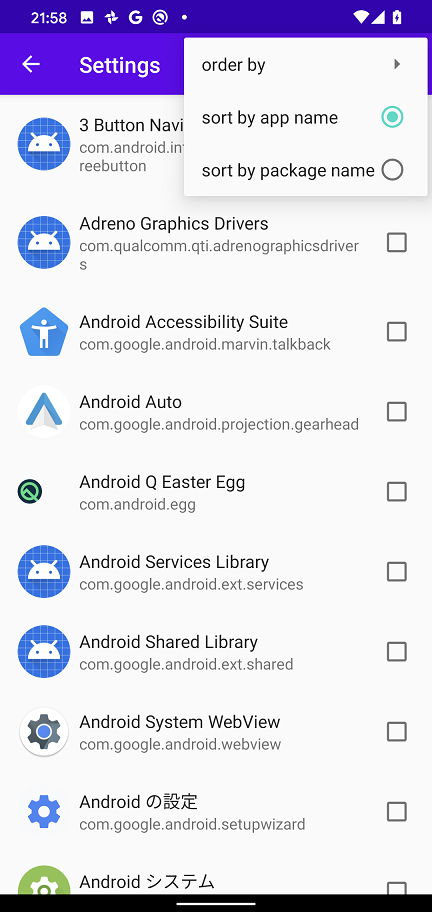
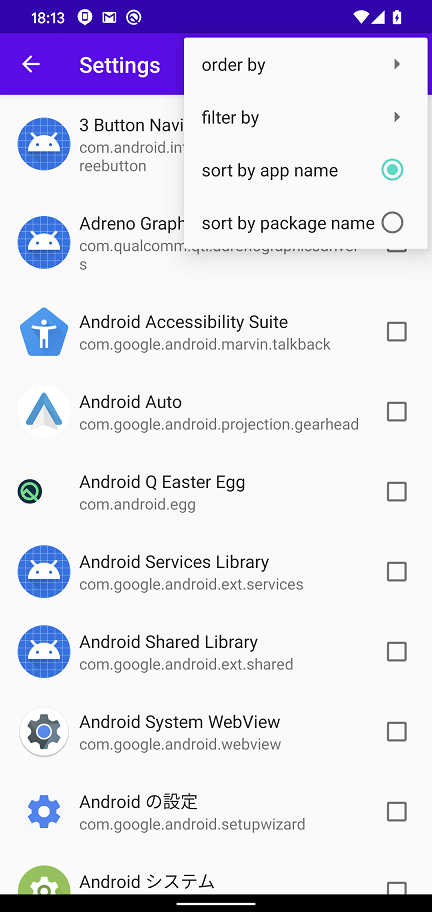
support filter by

diff --git a/android_app/app/src/main/java/tun/proxy/SettingsActivity.java b/android_app/app/src/main/java/tun/proxy/SettingsActivity.java
@@ -185,14 +185,16 @@ public class SettingsActivity extends AppCompatActivity {
     protected static class PackageListFragment extends PreferenceFragmentCompat
             implements SearchView.OnQueryTextListener, SearchView.OnCloseListener {
         private final Map<String, Boolean> mAllPackageInfoMap = new HashMap<>();
-        private final static String PREF_VPN_APPLICATION_SORTBY = "pref_vpn_application_app_sortby";
         private final static String PREF_VPN_APPLICATION_ORDERBY = "pref_vpn_application_app_orderby";
+        private final static String PREF_VPN_APPLICATION_FILTERBY = "pref_vpn_application_app_filterby";
+        private final static String PREF_VPN_APPLICATION_SORTBY = "pref_vpn_application_app_sortby";
 
-        private final AsyncTaskProgress task;
+        private AsyncTaskProgress task;
 
         private MyApplication.VPNMode mode;
         private MyApplication.AppSortBy appSortBy = MyApplication.AppSortBy.APPNAME;
         private MyApplication.AppOrderBy appOrderBy = MyApplication.AppOrderBy.ASC;
+        private MyApplication.AppSortBy appFilterBy = MyApplication.AppSortBy.APPNAME;
         private PreferenceScreen mFilterPreferenceScreen;
 
         public PackageListFragment(MyApplication.VPNMode mode) {
@@ -221,19 +223,6 @@ public class SettingsActivity extends AppCompatActivity {
             this.searchView.setOnCloseListener(this);
             this.searchView.setSubmitButtonEnabled(false);
 
-            switch (this.appSortBy) {
-                case APPNAME: {
-                    final MenuItem menuItem = menu.findItem(R.id.menu_sort_app_name);
-                    menuItem.setChecked(true);
-                    break;
-                }
-                case PKGNAME: {
-                    final MenuItem menuItem = menu.findItem(R.id.menu_sort_pkg_name);
-                    menuItem.setChecked(true);
-                    break;
-                }
-            }
-
             switch (this.appOrderBy) {
                 case ASC: {
                     final MenuItem menuItem = menu.findItem(R.id.menu_sort_order_asc);
@@ -247,30 +236,60 @@ public class SettingsActivity extends AppCompatActivity {
                 }
             }
 
+            switch (this.appFilterBy) {
+                case APPNAME: {
+                    final MenuItem menuItem = menu.findItem(R.id.menu_filter_app_name);
+                    menuItem.setChecked(true);
+                    break;
+                }
+                case PKGNAME: {
+                    final MenuItem menuItem = menu.findItem(R.id.menu_filter_pkg_name);
+                    menuItem.setChecked(true);
+                    break;
+                }
+            }
+
+            switch (this.appSortBy) {
+                case APPNAME: {
+                    final MenuItem menuItem = menu.findItem(R.id.menu_sort_app_name);
+                    menuItem.setChecked(true);
+                    break;
+                }
+                case PKGNAME: {
+                    final MenuItem menuItem = menu.findItem(R.id.menu_sort_pkg_name);
+                    menuItem.setChecked(true);
+                    break;
+                }
+            }
         }
 
         private String searchFilter = "";
         private SearchView searchView;
 
         protected void filter(String filter) {
-            this.filter(filter, this.appSortBy, this.appOrderBy);
+            this.filter(filter, this.appFilterBy, this.appOrderBy, this.appSortBy);
         }
 
-        protected void filter(String filter, final MyApplication.AppSortBy sortBy, final MyApplication.AppOrderBy orderBy) {
+        protected void filter(String filter, final MyApplication.AppSortBy filterBy, final MyApplication.AppOrderBy orderBy, final MyApplication.AppSortBy sortBy) {
             if (filter == null) {
                 filter = searchFilter;
             } else {
                 searchFilter = filter;
             }
-            this.appSortBy = sortBy;
+            this.appFilterBy = filterBy;
             this.appOrderBy = orderBy;
+            this.appSortBy = sortBy;
 
             Set<String> selected = this.getAllSelectedPackageSet();
             storeSelectedPackageSet(selected);
 
             this.removeAllPreferenceScreen();
-            //final AsyncTaskProgress task = new AsyncTaskProgress(this);
-            if (task.getStatus() == AsyncTask.Status.PENDING) {
+
+            if (task != null && task.getStatus() == AsyncTask.Status.PENDING) {
+                task.execute();
+            }
+            else {
+                task = new AsyncTaskProgress(this);
                 task.execute();
             }
 //            this.filterPackagesPreferences(filter, sortBy, orderBy);
@@ -281,16 +300,17 @@ public class SettingsActivity extends AppCompatActivity {
             super.onPause();
             if (this.task != null) {
                 this.task.cancel(true);
+                this.task = null;
             }
 
             Set<String> selected = this.getAllSelectedPackageSet();
             storeSelectedPackageSet(selected);
             SharedPreferences prefs = PreferenceManager.getDefaultSharedPreferences(MyApplication.getInstance().getApplicationContext());
             SharedPreferences.Editor edit = prefs.edit();
-            edit.putString(PREF_VPN_APPLICATION_SORTBY, this.appSortBy.name());
             edit.putString(PREF_VPN_APPLICATION_ORDERBY, this.appOrderBy.name());
+            edit.putString(PREF_VPN_APPLICATION_FILTERBY, this.appFilterBy.name());
+            edit.putString(PREF_VPN_APPLICATION_SORTBY, this.appSortBy.name());
             edit.apply();
-            Log.i("onPause", this.appSortBy.name());
         }
 
         @Override
@@ -301,11 +321,12 @@ public class SettingsActivity extends AppCompatActivity {
                 this.mAllPackageInfoMap.put(pkgName, loadMap.contains(pkgName));
             }
             SharedPreferences prefs = PreferenceManager.getDefaultSharedPreferences(MyApplication.getInstance().getApplicationContext());
-            String appSortBy = prefs.getString(PREF_VPN_APPLICATION_SORTBY, MyApplication.AppSortBy.APPNAME.name());
             String appOrderBy = prefs.getString(PREF_VPN_APPLICATION_ORDERBY, MyApplication.AppOrderBy.ASC.name());
-            this.appSortBy = Enum.valueOf(MyApplication.AppSortBy.class, appSortBy);
+            String appFilterBy = prefs.getString(PREF_VPN_APPLICATION_FILTERBY, MyApplication.AppSortBy.APPNAME.name());
+            String appSortBy = prefs.getString(PREF_VPN_APPLICATION_SORTBY, MyApplication.AppSortBy.APPNAME.name());
             this.appOrderBy = Enum.valueOf(MyApplication.AppOrderBy.class, appOrderBy);
-            Log.i("onResume", this.appSortBy.name());
+            this.appFilterBy = Enum.valueOf(MyApplication.AppSortBy.class, appFilterBy);
+            this.appSortBy = Enum.valueOf(MyApplication.AppSortBy.class, appSortBy);
             filter(null);
         }
 
@@ -440,21 +461,31 @@ public class SettingsActivity extends AppCompatActivity {
                 case android.R.id.home:
                     startActivity(new Intent(getActivity(), SettingsActivity.class));
                     return true;
-                case R.id.menu_sort_app_name:
-                    item.setChecked(!item.isChecked());
-                    filter(null, MyApplication.AppSortBy.APPNAME, appOrderBy);
-                    break;
-                case R.id.menu_sort_pkg_name:
-                    item.setChecked(!item.isChecked());
-                    filter(null, MyApplication.AppSortBy.PKGNAME, appOrderBy);
-                    break;
                 case R.id.menu_sort_order_asc:
                     item.setChecked(!item.isChecked());
-                    filter(null, appSortBy, MyApplication.AppOrderBy.ASC);
+                    filter(null, appFilterBy, MyApplication.AppOrderBy.ASC, appSortBy);
                     break;
                 case R.id.menu_sort_order_desc:
                     item.setChecked(!item.isChecked());
-                    filter(null, appSortBy, MyApplication.AppOrderBy.DESC);
+                    filter(null, appFilterBy, MyApplication.AppOrderBy.DESC, appSortBy);
+                    break;
+                case R.id.menu_filter_app_name:
+                    item.setChecked(!item.isChecked());
+                    this.appFilterBy = MyApplication.AppSortBy.APPNAME;
+                    //filter(null, MyApplication.AppSortBy.APPNAME, appOrderBy, appSortBy);
+                    break;
+                case R.id.menu_filter_pkg_name:
+                    item.setChecked(!item.isChecked());
+                    this.appFilterBy = MyApplication.AppSortBy.PKGNAME;
+                    //filter(null, MyApplication.AppSortBy.PKGNAME, appOrderBy, appSortBy);
+                    break;
+                case R.id.menu_sort_app_name:
+                    item.setChecked(!item.isChecked());
+                    filter(null, appFilterBy, appOrderBy, MyApplication.AppSortBy.APPNAME);
+                    break;
+                case R.id.menu_sort_pkg_name:
+                    item.setChecked(!item.isChecked());
+                    filter(null, appFilterBy, appOrderBy, MyApplication.AppSortBy.PKGNAME);
                     break;
             }
             return super.onOptionsItemSelected(item);
@@ -506,10 +537,10 @@ public class SettingsActivity extends AppCompatActivity {
 
         @Override
         protected List<PackageInfo> doInBackground(String... params) {
-            return filterPackages(packageFragment.searchFilter, packageFragment.appSortBy, packageFragment.appOrderBy);
+            return filterPackages(packageFragment.searchFilter, packageFragment.appFilterBy, packageFragment.appOrderBy, packageFragment.appSortBy);
         }
 
-        private List<PackageInfo> filterPackages(String filter, final MyApplication.AppSortBy sortBy, final MyApplication.AppOrderBy orderBy) {
+        private List<PackageInfo> filterPackages(String filter, final MyApplication.AppSortBy filterBy, final MyApplication.AppOrderBy orderBy, final MyApplication.AppSortBy sortBy) {
             final Context context = MyApplication.getInstance().getApplicationContext();
             final PackageManager pm = context.getPackageManager();
             final List<PackageInfo> installedPackages = pm.getInstalledPackages(PackageManager.GET_META_DATA);
@@ -564,8 +595,17 @@ public class SettingsActivity extends AppCompatActivity {
                 if (pi.packageName.equals(MyApplication.getInstance().getPackageName())) {
                     continue;
                 }
-                String t1 = pi.applicationInfo.loadLabel(pm).toString();
-                if (packageFragment.searchFilter.trim().isEmpty() || t1.toLowerCase().contains(packageFragment.searchFilter.toLowerCase())) {
+                String t1 = "";
+                String t2 = packageFragment.searchFilter.trim();
+                switch (packageFragment.appFilterBy) {
+                    case APPNAME:
+                        t1 = pi.applicationInfo.loadLabel(pm).toString();
+                        break;
+                    case PKGNAME:
+                        t1 = pi.packageName;
+                        break;
+                }
+                if (t2.isEmpty() || t1.toLowerCase().contains(t2.toLowerCase())) {
                     final Preference preference = packageFragment.buildPackagePreferences(pm, pi);
                     packageFragment.mFilterPreferenceScreen.addPreference(preference);
                 }

diff --git a/Readme.md b/Readme.md
@@ -53,21 +53,27 @@ The default is **Disallowed Application** selected.
 ![Menu Settings](images/Menu-Settings-Search.png) / ![Menu Settings](images/Menu-Settings-SortBy.png)
 
 You can narrow down the applications from the search icon.(![Menu](images/Search.png))
-Only applications that contain the keyword specified in the application name are displayed.
+Only applications that contain the keyword specified in the application name or package name will be displayed.
 
 The application list can be sorted from the menu icon  (![Menu](images/Menu.png)) at the top of the screen.
-
-* sort by app name
-  * Sort application list by application name
-
-* sort by package name
-  * Sort application list by package name
 
 * order by asc
   * Sorting in ascending order
 
 * order by desc
   * Sorting in descending order
+
+* filter by asc
+  * Search for the application name that contains the keyword you specified.
+
+* filter by desc
+  * Search for the package name that contains the keyword you specified.
+
+* sort by app name
+  * Sort application list by application name
+
+* sort by package name
+  * Sort application list by package name
 
 ### MITM (SSL decrypt)
 
